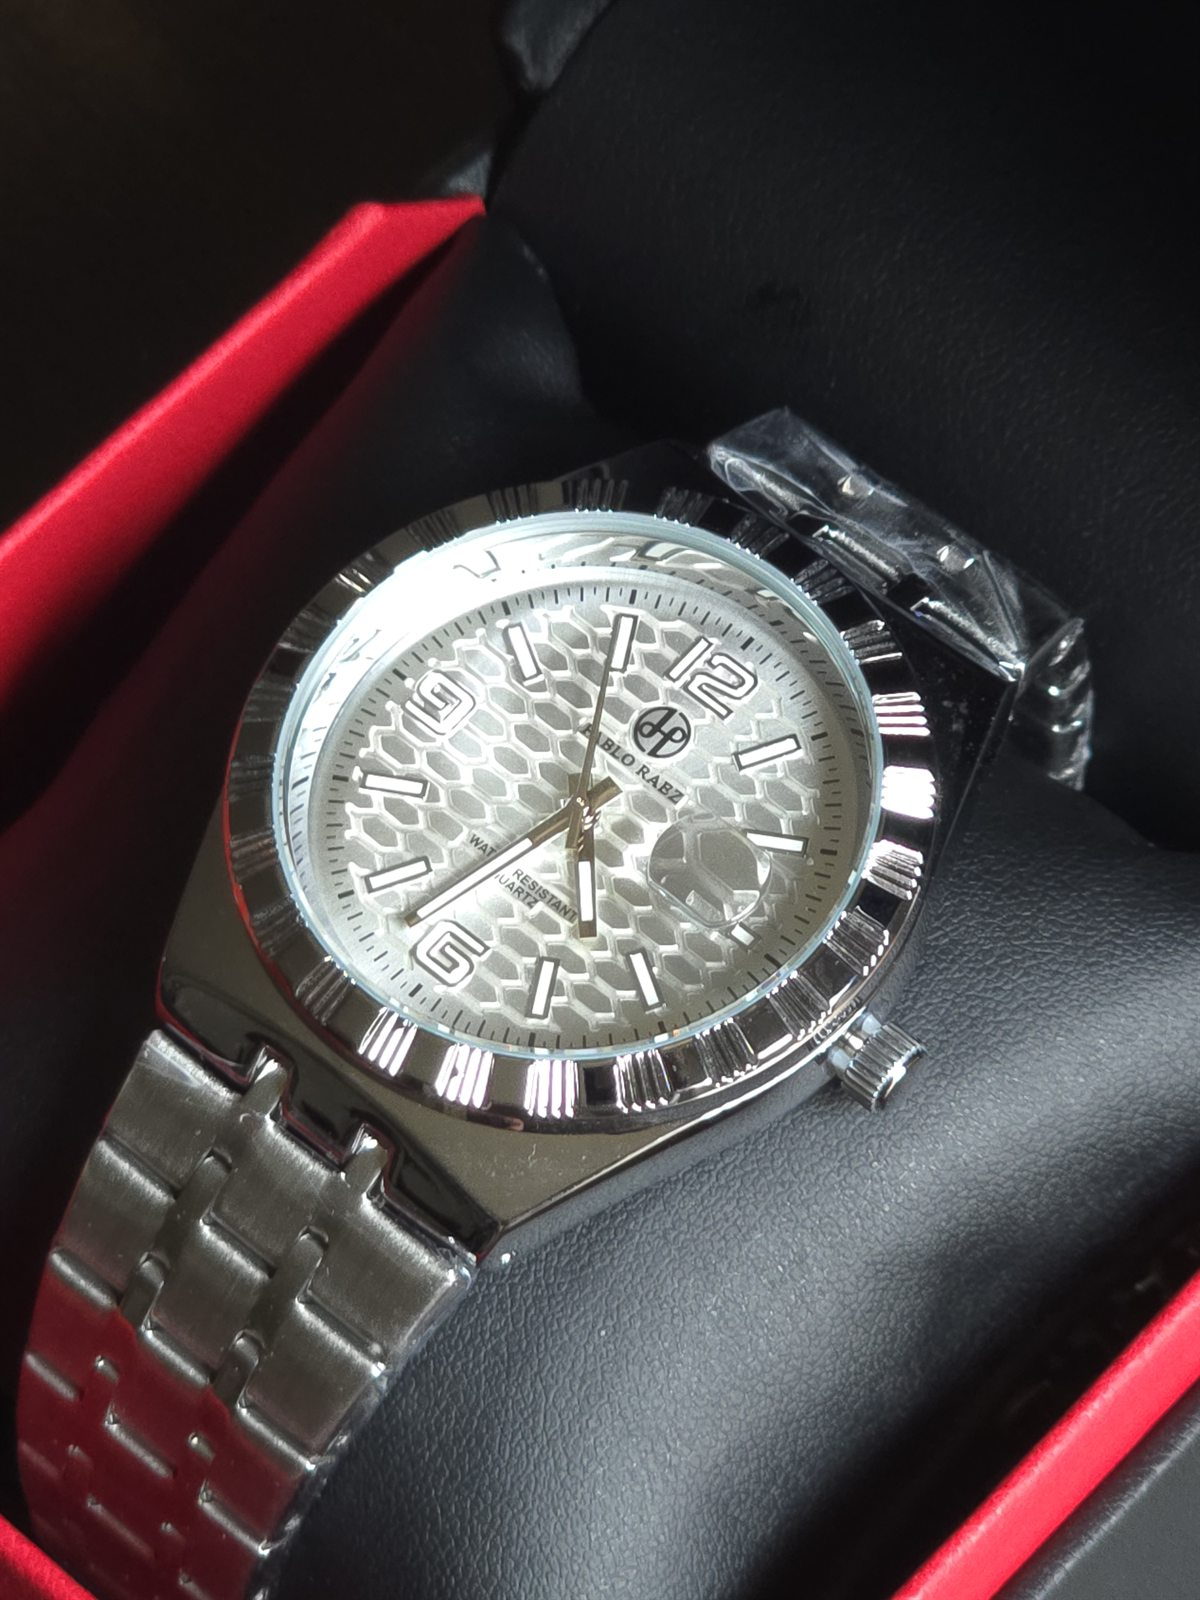
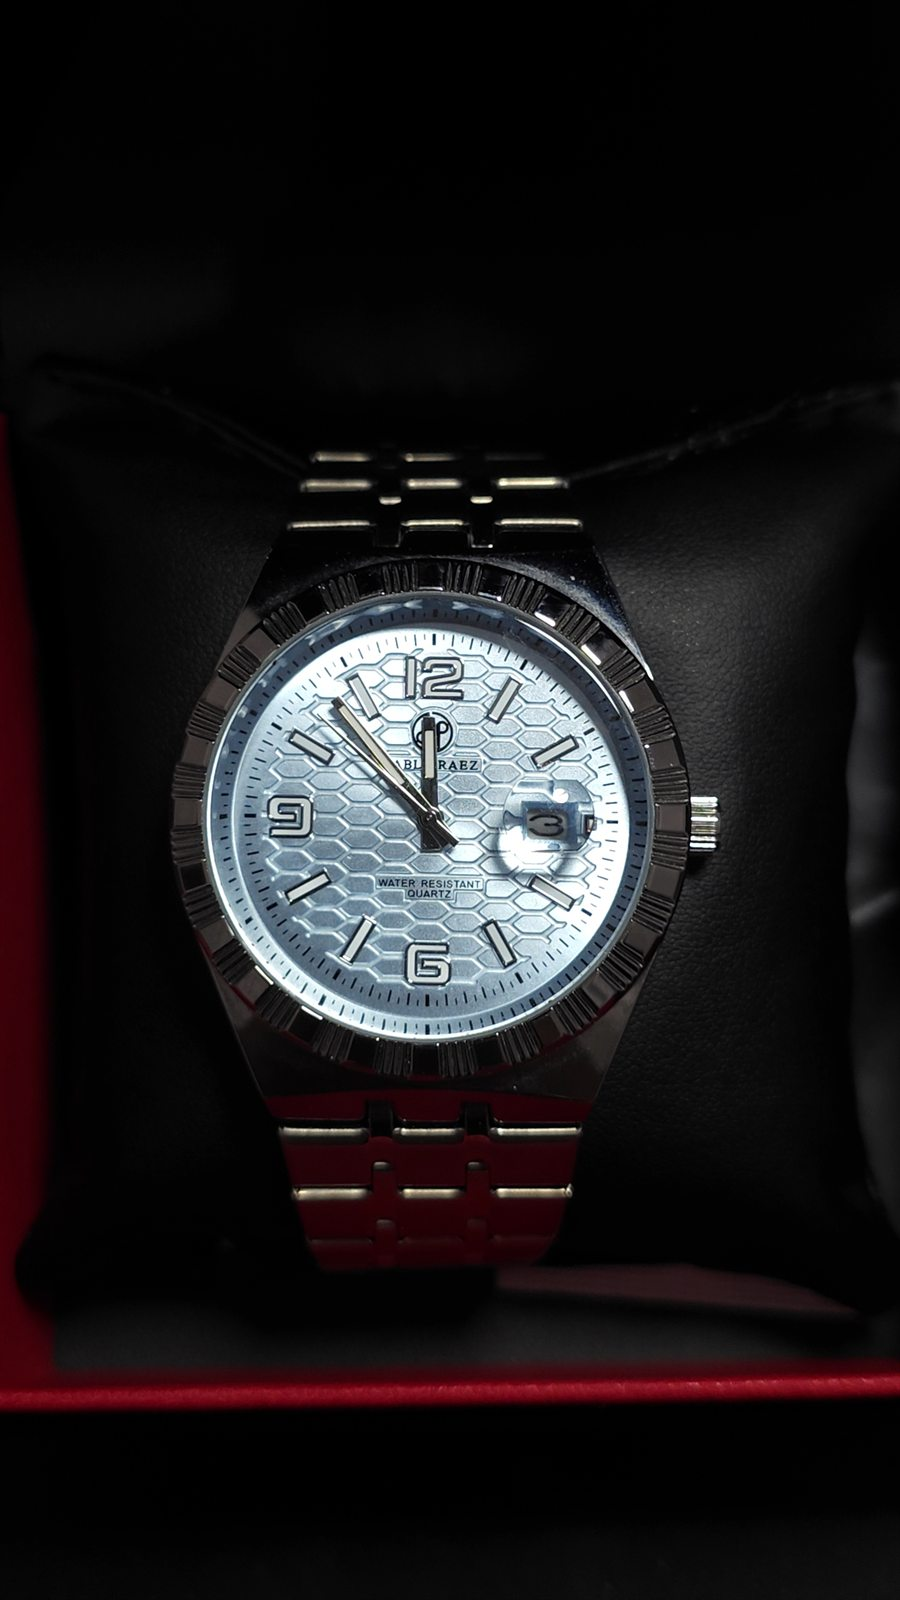
Separa Colmeia azul e branco como variantes de cor, add Sunlifex às marcas
As fotos que eram da sessão do Colmeia branco estavam misturadas com
as do azul gelo; agora são dois produtos (LR-02 azul, LR-08 branco).
Atualiza também a lista de marcas vendidas e os números da página
Sobre para refletir o catálogo atual.

diff --git a/assets/data.js b/assets/data.js
@@ -35,7 +35,7 @@ LR.collections = [
     name: 'Pulseira de aço',
     code: 'COL. 02',
     season: 'Dia a dia',
-    cover: IMG + 'colmeia-05.jpg',
+    cover: IMG + 'colmeia-04.jpg',
     intro: 'Pulseira prateada em elos de aço. Para usar todos os dias, do trabalho ao fim de semana.',
   },
   {
@@ -63,10 +63,19 @@ LR.products = [
     id: 'pablo-raez-colmeia', code: 'LR-02', brand: 'Pablo Raez',
     name: 'Pablo Raez Colmeia', subtitle: 'Azul gelo · pulseira de aço',
     collection: 'aco', category: 'Aço', price: 159.99, status: 'disponivel', badge: '',
-    images: [IMG + 'colmeia-01.jpg', IMG + 'colmeia-05.jpg', IMG + 'colmeia-04.jpg', IMG + 'colmeia-03.jpg', IMG + 'colmeia-02.jpg'],
+    images: [IMG + 'colmeia-01.jpg', IMG + 'colmeia-02.jpg', IMG + 'colmeia-03.jpg', IMG + 'colmeia-04.jpg'],
     colors: ['Azul gelo'], sizes: ['Único'],
     desc: 'Mostrador azul gelo com relevo em colmeia que aparece em cada reflexo. Algarismos aplicados no 12, 6 e 9, luneta trabalhada em relevo e pulseira de aço prateada. Tem data às 3 horas.',
     specs: { 'Marca': 'Pablo Raez', 'Mostrador': 'Azul gelo, relevo em colmeia', 'Luneta': 'Prateada, trabalhada em relevo', 'Funções': 'Horas, minutos, segundos e data', 'Movimento': 'Quartzo', 'Resistência à água': 'Water resistant (respingos)', 'Pulseira': 'Aço prateado' },
+  },
+  {
+    id: 'pablo-raez-colmeia-branco', code: 'LR-08', brand: 'Pablo Raez',
+    name: 'Pablo Raez Colmeia', subtitle: 'Branco · pulseira de aço',
+    collection: 'aco', category: 'Aço', price: 159.99, status: 'disponivel', badge: 'Novidade',
+    images: [IMG + 'colmeia-branco-01.jpg', IMG + 'colmeia-branco-02.jpg', IMG + 'colmeia-branco-03.jpg', IMG + 'colmeia-branco-04.jpg'],
+    colors: ['Branco'], sizes: ['Único'],
+    desc: 'Mesmo relevo em colmeia, agora em branco. Algarismos aplicados no 12, 6 e 9, luneta trabalhada em relevo e pulseira de aço prateada. Tem data às 3 horas.',
+    specs: { 'Marca': 'Pablo Raez', 'Mostrador': 'Branco, relevo em colmeia', 'Luneta': 'Prateada, trabalhada em relevo', 'Funções': 'Horas, minutos, segundos e data', 'Movimento': 'Quartzo', 'Resistência à água': 'Water resistant (respingos)', 'Pulseira': 'Aço prateado' },
   },
   {
     id: 'pablo-raez-classico', code: 'LR-03', brand: 'Pablo Raez',
@@ -136,7 +145,7 @@ LR.articles = [
     'Resistência à água não é o mesmo que poder mergulhar. Relógios marcados como water resistant aguentam respingos e chuva. Os de 50 metros aguentam lavar as mãos e chuva forte, mas não são feitos para piscina ou mar.',
     'Evite acertar a data entre 21h e 3h, quando o mecanismo está trocando o dia. E, se o relógio for de quartzo, troque a bateria assim que ele começar a atrasar.',
   ] },
-  { slug: 'por-que-quartzo', title: 'Por que quartzo', kicker: 'Mecanismo', date: '2026-11-06', cover: IMG + 'colmeia-05.jpg', excerpt: 'Preciso, prático e quase sem manutenção. Entenda o mecanismo dos relógios da vitrine.', body: [
+  { slug: 'por-que-quartzo', title: 'Por que quartzo', kicker: 'Mecanismo', date: '2026-11-06', cover: IMG + 'colmeia-04.jpg', excerpt: 'Preciso, prático e quase sem manutenção. Entenda o mecanismo dos relógios da vitrine.', body: [
     'Um relógio de quartzo usa uma bateria e um pequeno cristal que vibra numa frequência constante. É isso que faz ele marcar a hora com tanta precisão, sem precisar dar corda.',
     'Na prática, você coloca no pulso e esquece. A manutenção se resume à troca da bateria a cada poucos anos, que qualquer relojoaria faz em minutos.',
   ] },

diff --git a/index.html b/index.html
@@ -81,7 +81,7 @@
         <h2 class="display display-l split">Foto real,<br>preço claro.</h2>
         <p class="body-l" data-reveal>Cada relógio da vitrine foi fotografado por nós, na mão e na luz do dia. O que você vê é o que você recebe. O preço está na etiqueta, e a compra é fechada direto com a gente, numa conversa pelo WhatsApp.</p>
         <ul class="spec-list" data-reveal>
-          <li><span>Marcas</span><span>Technos e Pablo Raez</span></li>
+          <li><span>Marcas</span><span>Technos, Pablo Raez e Sunlifex</span></li>
           <li><span>Pulseiras</span><span>Aço e couro</span></li>
           <li><span>Preços</span><span>De R$ 129,99 a R$ 799,99</span></li>
           <li><span>Atendimento</span><span>WhatsApp, do pedido à entrega</span></li>
@@ -111,7 +111,7 @@
         <figure class="hscroll-item is-tall"><div class="img-reveal"><img src="assets/img/relogios/riviera-02.jpg" alt="Technos Riviera na caixa" loading="lazy"></div><figcaption><span class="label">Technos Riviera</span><span class="label">02</span></figcaption></figure>
         <figure class="hscroll-item is-tall"><div class="img-reveal"><img src="assets/img/relogios/rosa-02.jpg" alt="Pablo Raez Rosa dos Ventos" loading="lazy"></div><figcaption><span class="label">Pablo Raez Rosa dos Ventos</span><span class="label">03</span></figcaption></figure>
         <figure class="hscroll-item is-tall"><div class="img-reveal"><img src="assets/img/relogios/romano-01.jpg" alt="Pablo Raez Romano no pulso" loading="lazy"></div><figcaption><span class="label">Pablo Raez Romano</span><span class="label">04</span></figcaption></figure>
-        <figure class="hscroll-item is-tall"><div class="img-reveal"><img src="assets/img/relogios/colmeia-05.jpg" alt="Detalhe do mostrador colmeia" loading="lazy"></div><figcaption><span class="label">Detalhe · colmeia</span><span class="label">05</span></figcaption></figure>
+        <figure class="hscroll-item is-tall"><div class="img-reveal"><img src="assets/img/relogios/colmeia-branco-02.jpg" alt="Pablo Raez Colmeia na cor branca" loading="lazy"></div><figcaption><span class="label">Colmeia · branco</span><span class="label">05</span></figcaption></figure>
         <figure class="hscroll-item is-tall"><div class="img-reveal"><img src="assets/img/relogios/rosa-05.jpg" alt="Pulseira de couro com a marca gravada" loading="lazy"></div><figcaption><span class="label">Detalhe · couro</span><span class="label">06</span></figcaption></figure>
       </div>
       <div class="hscroll-progress"><i></i></div>

diff --git a/sobre.html b/sobre.html
@@ -37,9 +37,9 @@
   </section>
   <section class="section-tight wrap">
     <div class="stats">
-      <div class="stat" data-reveal><strong class="num" data-count-to="5">0</strong><span class="label">Modelos na vitrine</span></div>
-      <div class="stat" data-reveal style="--d:.1s"><strong class="num" data-count-to="2">0</strong><span class="label">Marcas</span></div>
-      <div class="stat" data-reveal style="--d:.2s"><strong class="num" data-count-to="17">0</strong><span class="label">Fotos reais das peças</span></div>
+      <div class="stat" data-reveal><strong class="num" data-count-to="8">0</strong><span class="label">Modelos na vitrine</span></div>
+      <div class="stat" data-reveal style="--d:.1s"><strong class="num" data-count-to="3">0</strong><span class="label">Marcas</span></div>
+      <div class="stat" data-reveal style="--d:.2s"><strong class="num" data-count-to="31">0</strong><span class="label">Fotos reais das peças</span></div>
       <div class="stat" data-reveal style="--d:.3s"><strong class="num" data-count-to="1">0</strong><span class="label">Conversa para fechar a compra</span></div>
     </div>
   </section>

diff --git a/loja.html b/loja.html
@@ -37,7 +37,7 @@
     </div>
     <div class="vitrine-strip" data-reveal="clip">
       <a href="produto.html?id=technos-riviera" data-cursor="Ver"><img src="assets/img/relogios/riviera-02.jpg" alt="Technos Riviera" loading="eager"><span class="label">Technos Riviera</span></a>
-      <a href="produto.html?id=pablo-raez-colmeia" data-cursor="Ver"><img src="assets/img/relogios/colmeia-05.jpg" alt="Pablo Raez Colmeia" loading="eager"><span class="label">Colmeia</span></a>
+      <a href="produto.html?id=pablo-raez-colmeia" data-cursor="Ver"><img src="assets/img/relogios/colmeia-04.jpg" alt="Pablo Raez Colmeia" loading="eager"><span class="label">Colmeia</span></a>
       <a href="produto.html?id=pablo-raez-rosa-dos-ventos" data-cursor="Ver"><img src="assets/img/relogios/rosa-04.jpg" alt="Pablo Raez Rosa dos Ventos" loading="eager"><span class="label">Rosa dos Ventos</span></a>
       <a href="produto.html?id=pablo-raez-romano" data-cursor="Ver"><img src="assets/img/relogios/romano-01.jpg" alt="Pablo Raez Romano" loading="eager"><span class="label">Romano</span></a>
     </div>
